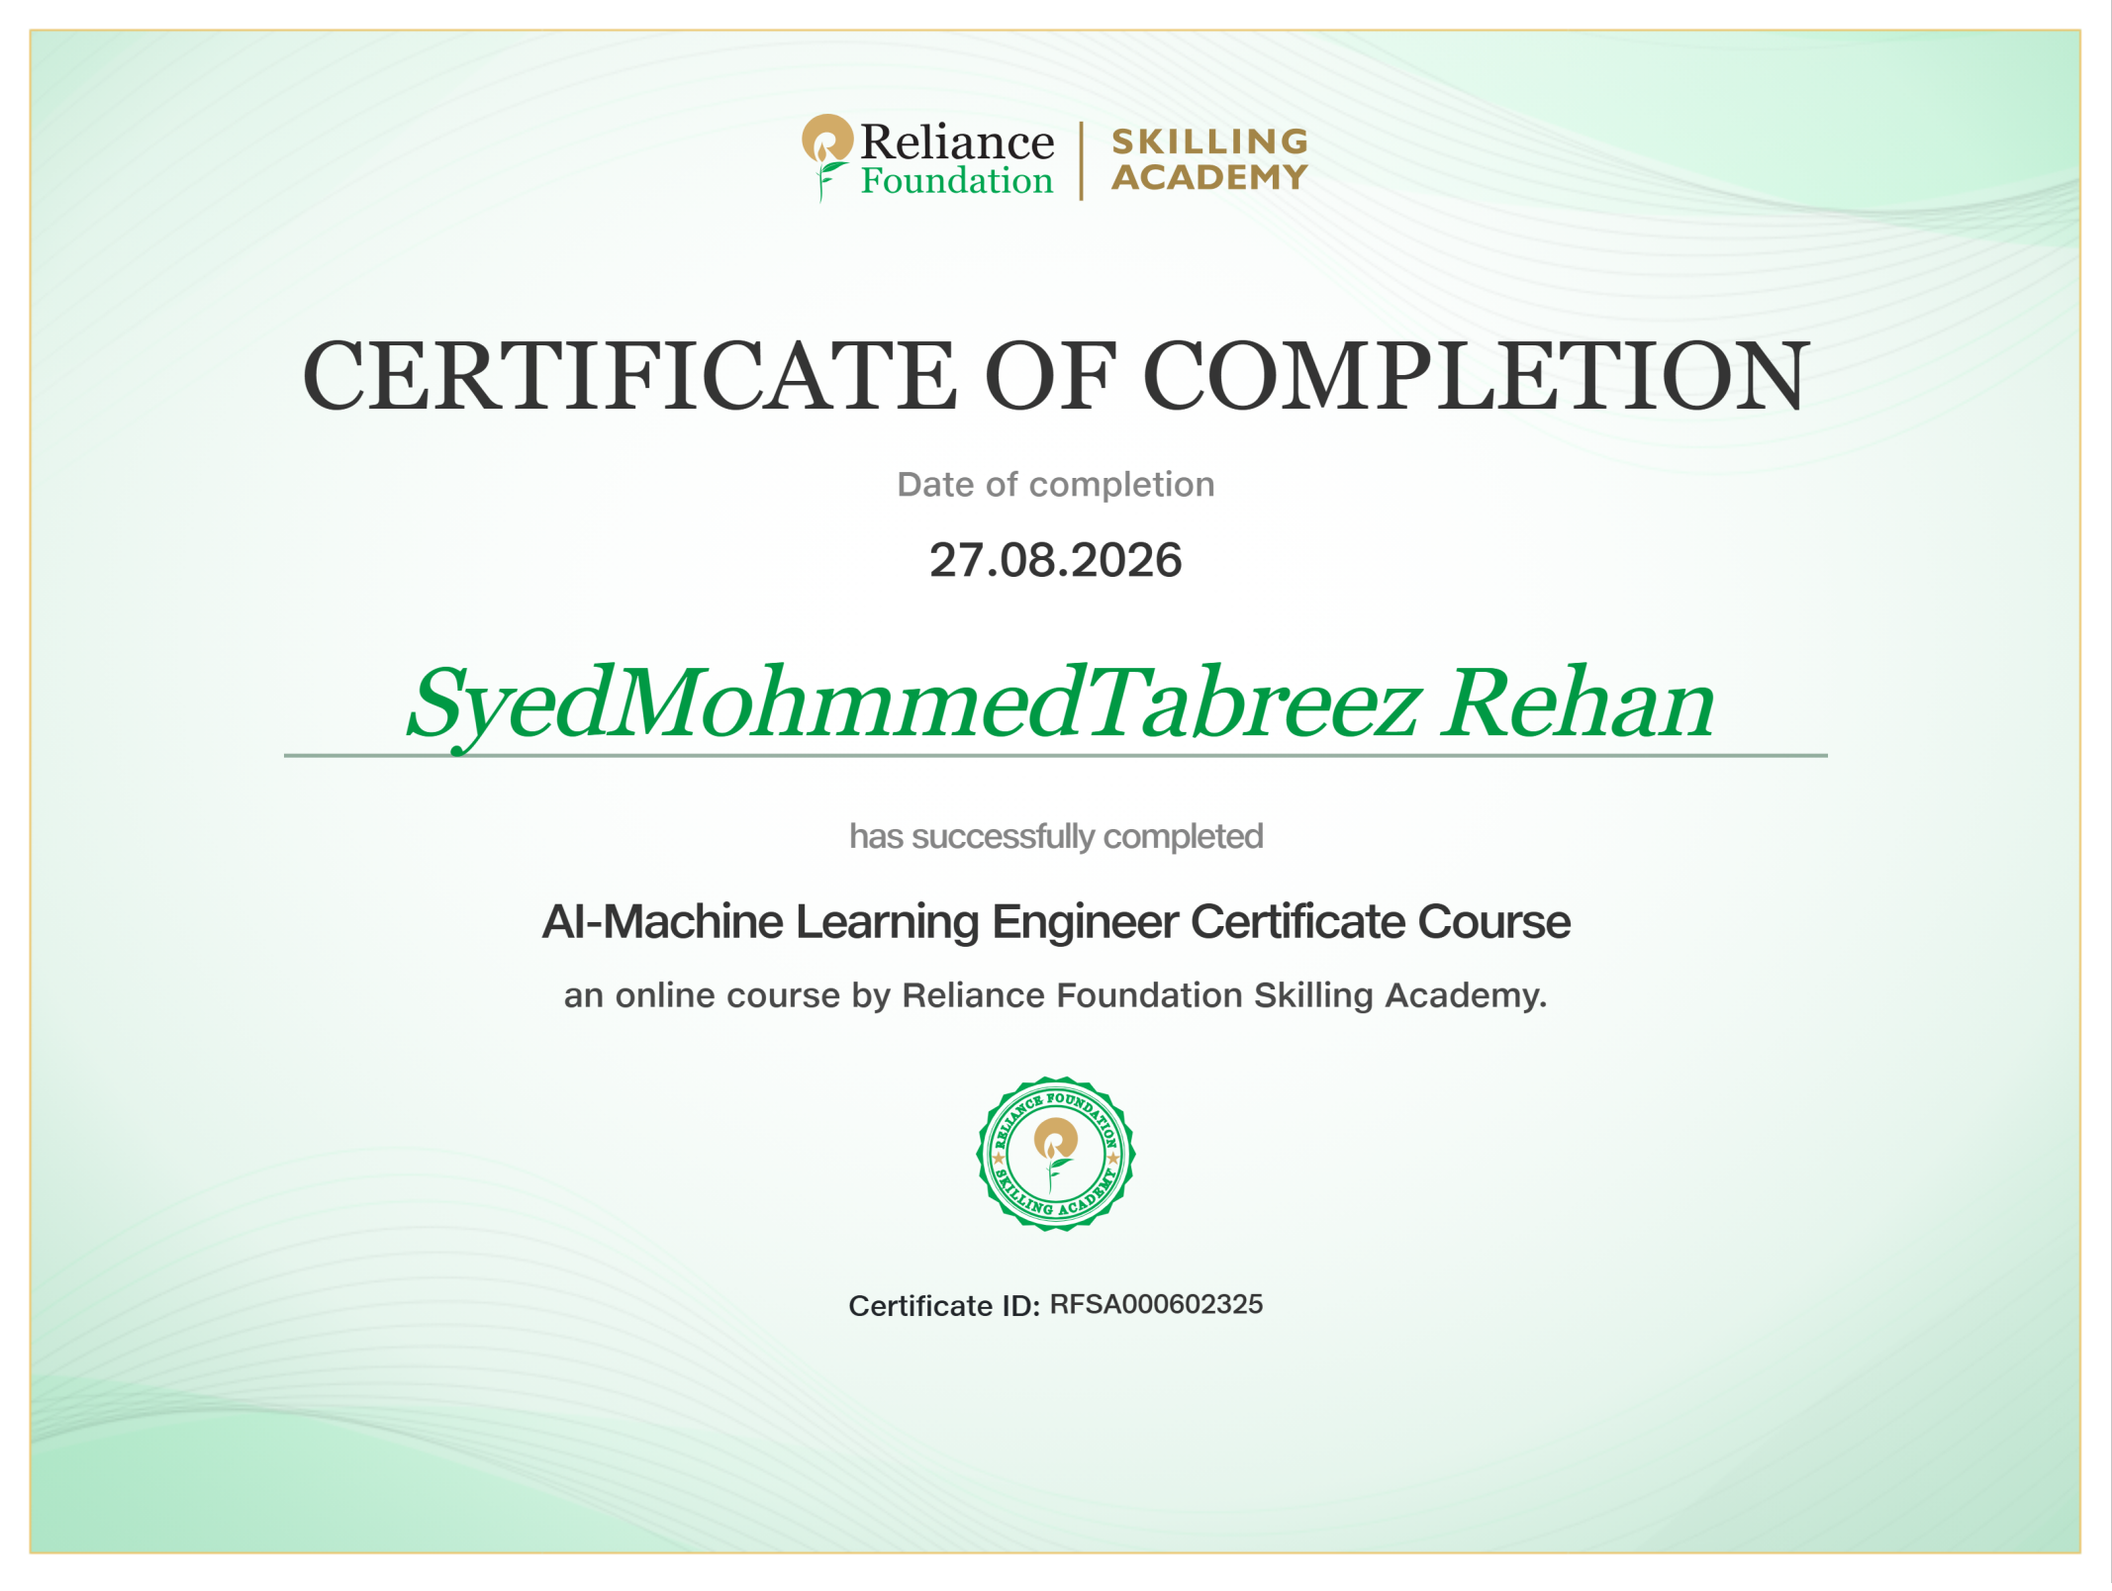
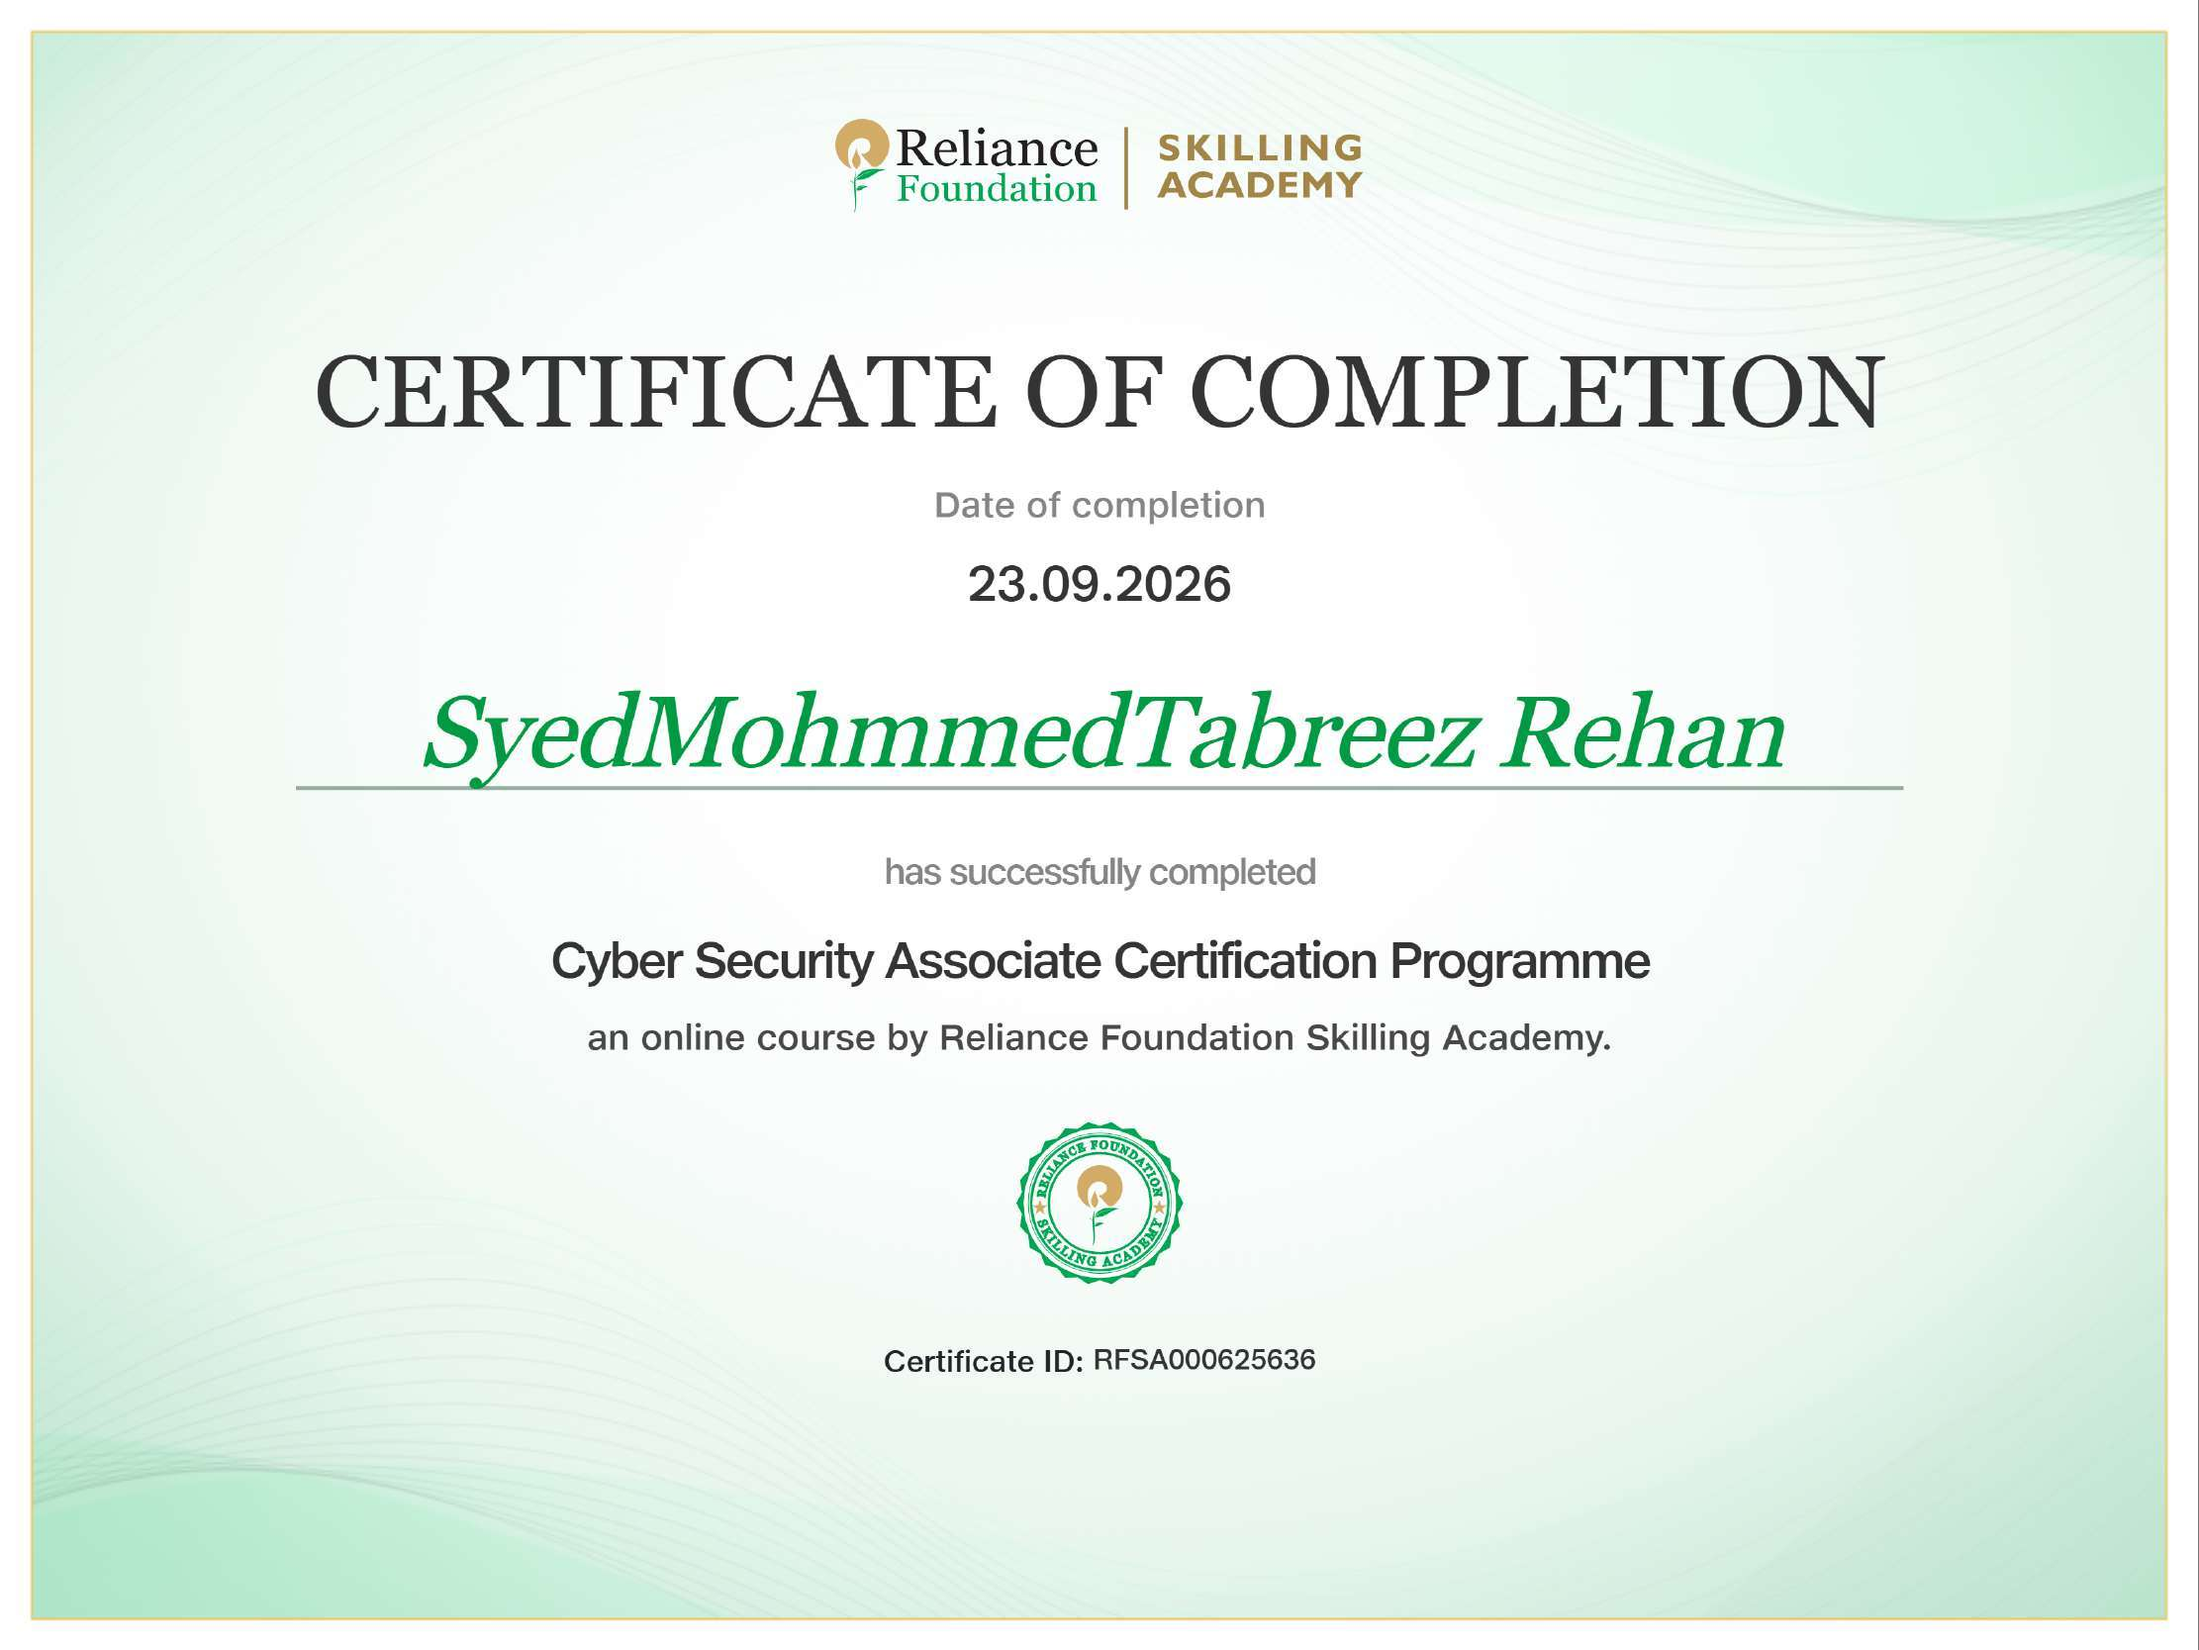
feat: add Reliance Foundation Skilling Academy Cyber Security Associate Certificate (RFSA000625636) and update resume

diff --git a/src/data/portfolioData.js b/src/data/portfolioData.js
@@ -430,15 +430,15 @@ export const portfolioData = {
       id: "cert-reliance-cybersecurity",
       name: "Cyber Security Associate Certification Programme",
       category: "security",
-      issuer: "Reliance Foundation Skilling Academy · Skill India",
+      issuer: "Reliance Foundation Skilling Academy",
       year: "2026",
       date: "September 23, 2026",
-      tag: "180 Hours Skilling · Industry Authorized",
+      tag: "Reliance Foundation Certified · Cert ID: RFSA000625636",
       verified: true,
       image: "/assets/certificates/cyber_security_associate.png",
       pdfUrl: "/assets/certificates/cyber_security_associate.pdf",
-      description: "Rigorous 180-hour professional skilling course in cyber security operations, threat modeling, endpoint hardening, and vulnerability mitigation authorized by Skill India Digital.",
-      signatory: "Reliance Foundation Skilling Academy & NSDC"
+      description: "Official Certificate of Completion for the Cyber Security Associate Certification Programme by Reliance Foundation Skilling Academy (Cert ID: RFSA000625636). Completed on September 23, 2026.",
+      signatory: "Reliance Foundation Skilling Academy"
     },
     {
       id: "cert-nasscom-endpoint",
@@ -580,7 +580,7 @@ Tools      : Git, GitHub, VS Code, Figma, Linux CLI`,
 ----------------------------------------
 [2026] NPTEL Elite Gold (90%) - HCI (Top 1% of 23,139 candidates)
 [2025] Oracle Cloud Infrastructure Certified Agentic AI Foundations Associate
-[2025] Reliance Foundation Cyber Security Associate (180 Hours)
+[2026] Reliance Foundation Cyber Security Associate (Cert ID: RFSA000625636)
 [2025] NASSCOM & Skill India AI - Business Analyst
 [2025] NASSCOM Analyst Endpoint Security
 [2025] IBM SkillsBuild Artificial Intelligence

diff --git a/src/utils/aiEngine.js b/src/utils/aiEngine.js
@@ -47,7 +47,7 @@ I’m looking for opportunities where I can combine technology, business underst
 • **Enterprise Credentials**:
   - Oracle Certified: Agentic AI Foundations Associate
   - IBM SkillsBuild: Getting Started with Artificial Intelligence
-  - Reliance Foundation: 180h Intensive Cybersecurity Skilling
+  - Reliance Foundation Skilling Academy: Cyber Security Associate (Cert ID: RFSA000625636)
   - AICTE & Brainovision: 1-Month Generative AI & Cloud Engineering
 • **Core Specialization**: Dual focus on Enterprise AI (Prompt Engineering & RAG) + Cyber Security (OWASP Top 10 & Delimiter Sandboxing).
 • **Shipped Projects**: 5 web and AI production applications.
@@ -60,7 +60,7 @@ I’m looking for opportunities where I can combine technology, business underst
     return `🏆 **Verified Credentials & Certifications**:
 1. 🥇 **NPTEL Elite Gold (90%)**: Human-Computer Interaction (IIT Madras & IIIT Delhi) — Top 1% rank.
 2. 🤖 **Oracle Cloud Infrastructure**: Certified Agentic AI Foundations Associate (2025).
-3. 🛡 **Reliance Foundation Cyber Security**: 180-Hour Skilling Course Certificate.
+3. 🛡 **Reliance Foundation Skilling Academy**: Cyber Security Associate Certification Programme (Cert ID: RFSA000625636).
 4. 🧠 **IBM SkillsBuild**: Getting Started with Artificial Intelligence.
 5. 🌐 **AICTE & Brainovision**: 1-Month Generative AI Internship Certificate.
 6. 🔒 **Tech Mahindra & NASSCOM**: Cybersecurity & Endpoint Security Associate.
